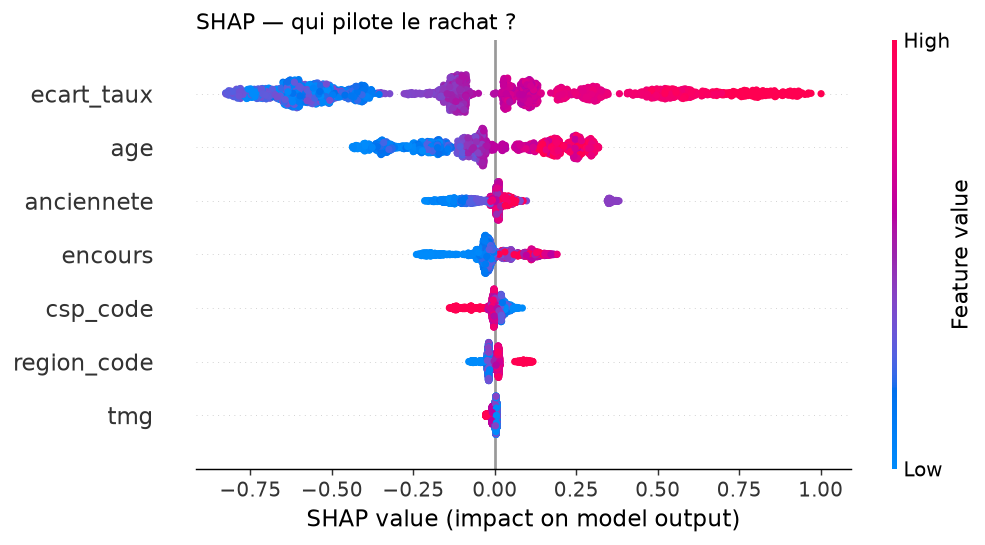
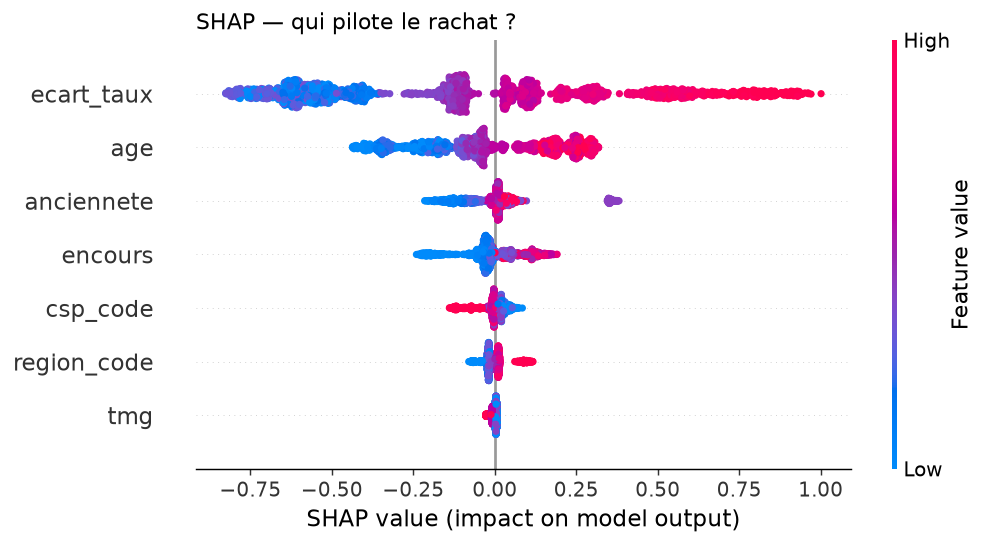
Add files via upload

diff --git a/validation_explicabilite/outputs/rapport_validation_explicabilite.md b/validation_explicabilite/outputs/rapport_validation_explicabilite.md
@@ -3,8 +3,10 @@
 *Généré automatiquement — pipeline `actuariat-sante-lab` × `metaquery_actuary`*
 
 ## 1. Traçabilité des données (manifeste MetaQuery)
-- Dataset : `data_rachats.csv` — 12000 lignes — SHA-256 `7914716c2b393d03…`
-- Horodatage : 2026-07-13 15:12:05 — producteur : metaquery_bridge v0.1 (mode autonome)
+- Source : `PORTEFEUILLE_EPARGNE` — statut requête : **executee**
+- Extraction : `extract.csv` — 12000 lignes — SHA-256 `7914716c2b393d03…`
+- Qualité : **PASS** — contrôles : non_empty_extract
+- Horodatage : 2026-07-28T18:13:27Z — producteur : metaquery_actuary V1.1
 - Requête exécutée jointe au manifeste (`outputs/manifest.json`).
 
 ## 2. Performance du modèle
